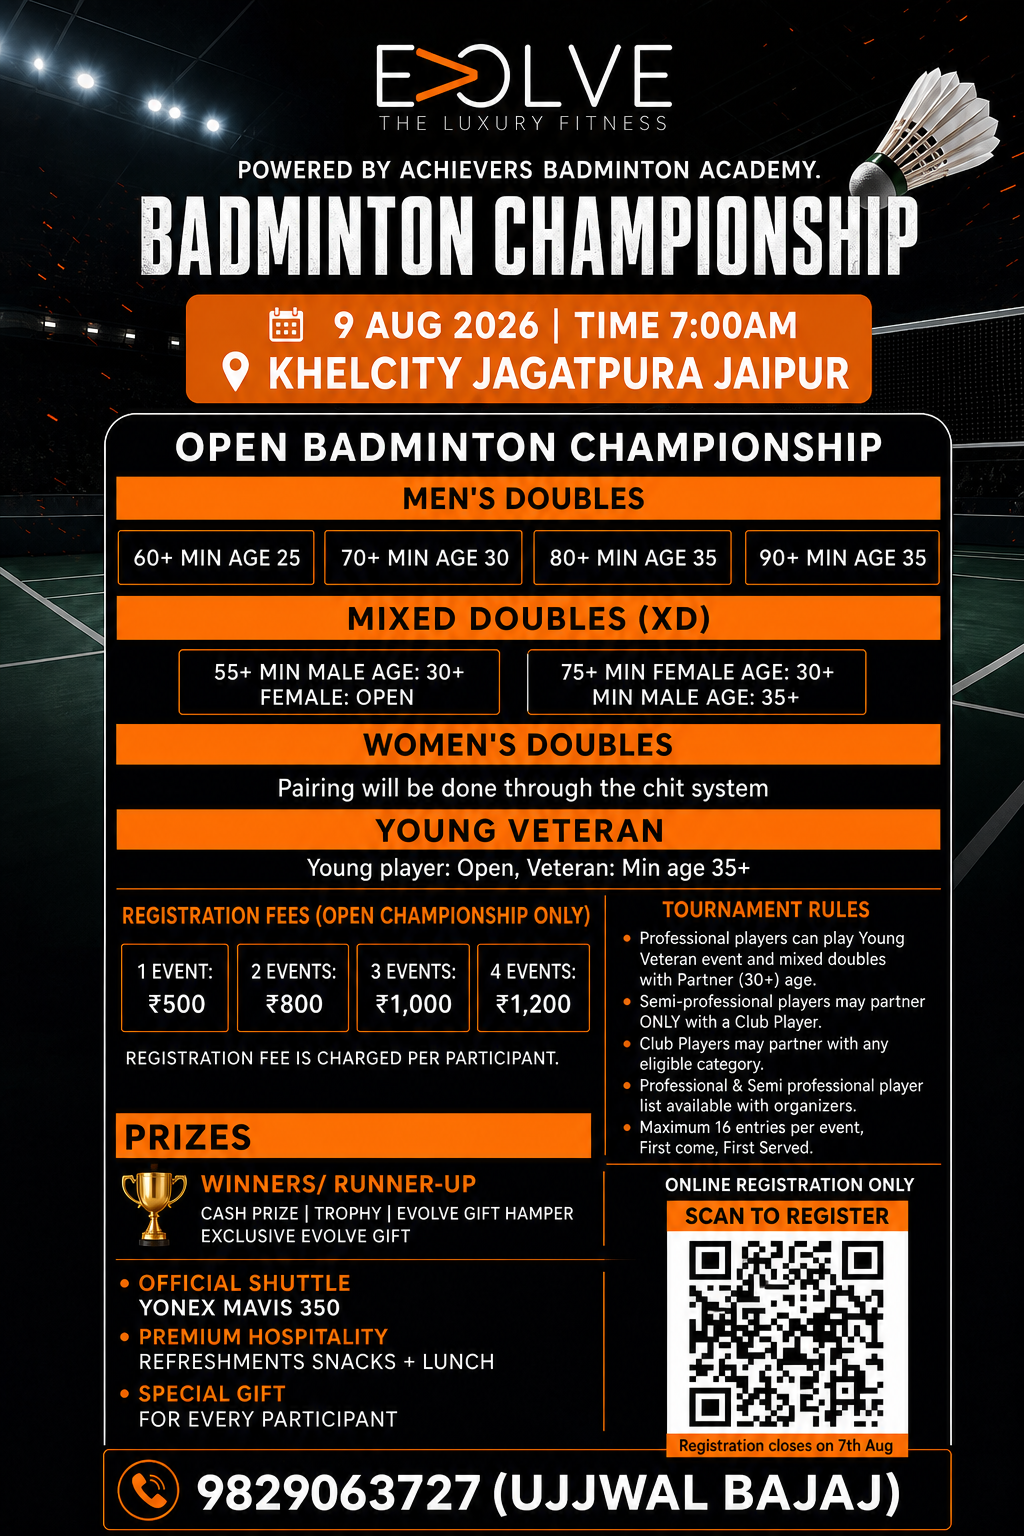
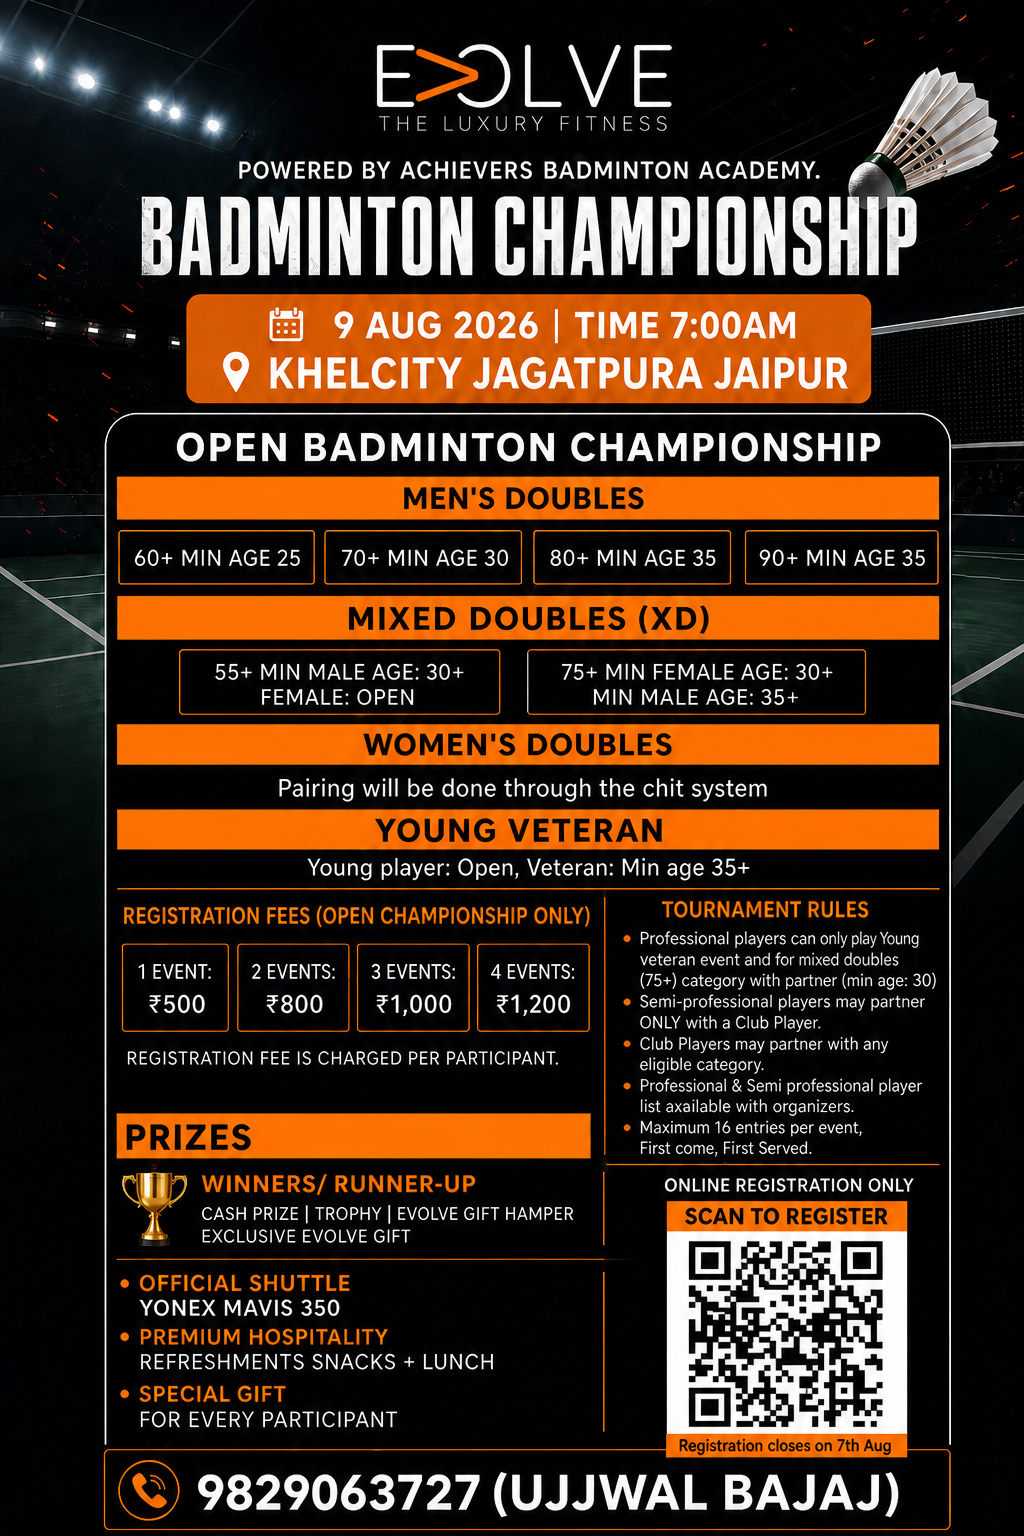
Restrict open professionals to Young Veteran and Mixed Doubles 75+.
Pros can no longer enter Mixed Doubles 55+; XD 75+ still requires a partner aged 30+.

diff --git a/frontend/react/src/data/badmintonChampionship.js b/frontend/react/src/data/badmintonChampionship.js
@@ -121,10 +121,10 @@ export const OPEN_PLAYER_LEVEL_OPTIONS = [
   { value: "professional", label: "Professional" },
 ];
 
-/** Pros may only enter Young Veteran and Mixed Doubles (partner 30+). */
-export const OPEN_PRO_ALLOWED_DIVISIONS = ["young_veteran", "mixed_doubles"];
+/** Pros may only enter Young Veteran and Mixed Doubles 75+ (partner 30+). */
+export const OPEN_PRO_ALLOWED_CATEGORY_IDS = ["open_yv", "open_xd_75"];
 
-/** Extra partner-age floor when a professional enters Mixed Doubles. */
+/** Extra partner-age floor when a professional enters Mixed Doubles 75+. */
 export const OPEN_PRO_MIXED_PARTNER_MIN_AGE = 30;
 
 /** Poster fee ladder (per participant, by number of events). */
@@ -164,7 +164,7 @@ export const OPEN_POSTER = {
   participationGift: "Special gift for every participant",
   maxEntriesNote: `Maximum ${MAX_ENTRIES_PER_CATEGORY} entries per event (first come, first served)`,
   rules: [
-    "Professional players can play Young Veteran and Mixed Doubles with a partner aged 30+.",
+    "Professional players can play Young Veteran and Mixed Doubles 75+ with a partner aged 30+.",
     "Semi-professional players may partner ONLY with a Club player.",
     "Club players may partner with any eligible category.",
     "Lists of professional and semi-professional players are available with the organizers.",
@@ -251,7 +251,7 @@ export const OPEN_SEMI_PRO_NOTES = [
   "This list is not exhaustive.",
 ];
 
-/** List B — professionals (Young Veteran + Mixed Doubles with partner 30+ only). */
+/** List B — professionals (Young Veteran + Mixed Doubles 75+ with partner 30+ only). */
 export const OPEN_PRO_PLAYERS = /** @type {OpenListedPlayer[]} */ ([
   { sn: 1, name: "Aakash", club: "ACE" },
   { sn: 2, name: "KD (Krishna Dutt)", club: "ACE" },
@@ -329,14 +329,14 @@ export function validateYoungVeteranAges(
 }
 
 /**
- * Professionals may only enter Young Veteran and Mixed Doubles.
+ * Professionals may only enter Young Veteran and Mixed Doubles 75+.
  * @param {OpenCategory | null | undefined} cat
  * @param {string} playerLevel
  */
 export function isOpenCategoryAllowedForLevel(cat, playerLevel) {
   if (!cat) return false;
   if (playerLevel !== "professional") return true;
-  return OPEN_PRO_ALLOWED_DIVISIONS.includes(cat.division);
+  return OPEN_PRO_ALLOWED_CATEGORY_IDS.includes(cat.id);
 }
 
 /**

diff --git a/frontend/react/src/pages/BadmintonOpen.jsx b/frontend/react/src/pages/BadmintonOpen.jsx
@@ -215,7 +215,7 @@ export default function BadmintonOpen() {
     }
     if (!isOpenCategoryAllowedForLevel(cat, details.playerLevel)) {
       setError(
-        "Professionals may only enter Young Veteran and Mixed Doubles (partner aged 30+)."
+        "Professionals may only enter Young Veteran and Mixed Doubles 75+ (partner aged 30+)."
       );
       return;
     }
@@ -292,11 +292,11 @@ export default function BadmintonOpen() {
 
     if (
       details.playerLevel === "professional" &&
-      cat.division === "mixed_doubles" &&
+      cat.id === "open_xd_75" &&
       partnerAgeRounded < OPEN_PRO_MIXED_PARTNER_MIN_AGE
     ) {
       setError(
-        `Professionals need a partner aged ${OPEN_PRO_MIXED_PARTNER_MIN_AGE}+ for Mixed Doubles.`
+        `Professionals need a partner aged ${OPEN_PRO_MIXED_PARTNER_MIN_AGE}+ for Mixed Doubles 75+.`
       );
       return;
     }
@@ -528,9 +528,9 @@ export default function BadmintonOpen() {
                 </label>
               </div>
               <p className="badminton-form__hint">
-                Professionals may enter Young Veteran and Mixed Doubles (partner
-                aged 30+). Semi-professionals may partner only with a Club
-                player.
+                Professionals may enter Young Veteran and Mixed Doubles 75+
+                (partner aged 30+). Semi-professionals may partner only with a
+                Club player.
               </p>
               <div className="badminton-form__actions badminton-form__actions--stack">
                 <button

diff --git a/backend/src/config/badmintonChampionship.js b/backend/src/config/badmintonChampionship.js
@@ -146,10 +146,10 @@ export const OPEN_PLAYER_LEVELS = [
   "professional",
 ];
 
-/** Pros may only enter Young Veteran and Mixed Doubles (partner 30+). */
-export const OPEN_PRO_ALLOWED_DIVISIONS = ["young_veteran", "mixed_doubles"];
+/** Pros may only enter Young Veteran and Mixed Doubles 75+ (partner 30+). */
+export const OPEN_PRO_ALLOWED_CATEGORY_IDS = ["open_yv", "open_xd_75"];
 
-/** Extra partner-age floor when a professional enters Mixed Doubles. */
+/** Extra partner-age floor when a professional enters Mixed Doubles 75+. */
 export const OPEN_PRO_MIXED_PARTNER_MIN_AGE = 30;
 
 export const ALL_PLAYER_LEVELS = [
@@ -224,14 +224,14 @@ export function validateYoungVeteranAges(
 }
 
 /**
- * Professionals may only enter Young Veteran and Mixed Doubles.
+ * Professionals may only enter Young Veteran and Mixed Doubles 75+.
  * @param {OpenCategory | null | undefined} cat
  * @param {string} playerLevel
  */
 export function isOpenCategoryAllowedForLevel(cat, playerLevel) {
   if (!cat) return false;
   if (playerLevel !== "professional") return true;
-  return OPEN_PRO_ALLOWED_DIVISIONS.includes(cat.division);
+  return OPEN_PRO_ALLOWED_CATEGORY_IDS.includes(cat.id);
 }
 
 /**

diff --git a/backend/src/services/badmintonService.js b/backend/src/services/badmintonService.js
@@ -323,7 +323,7 @@ export function parseOpenRegistrationBody(body) {
       return {
         ok: false,
         message:
-          "Professional players may only enter Young Veteran and Mixed Doubles (partner aged 30+)",
+          "Professional players may only enter Young Veteran and Mixed Doubles 75+ (partner aged 30+)",
       };
     }
 
@@ -418,12 +418,12 @@ export function parseOpenRegistrationBody(body) {
 
     if (
       playerLevel === "professional" &&
-      cat.division === "mixed_doubles" &&
+      cat.id === "open_xd_75" &&
       partnerAgeRounded < OPEN_PRO_MIXED_PARTNER_MIN_AGE
     ) {
       return {
         ok: false,
-        message: `Professional players need a partner aged ${OPEN_PRO_MIXED_PARTNER_MIN_AGE}+ for Mixed Doubles`,
+        message: `Professional players need a partner aged ${OPEN_PRO_MIXED_PARTNER_MIN_AGE}+ for Mixed Doubles 75+`,
       };
     }
 

diff --git a/frontend/react/src/components/BadmintonPlayerListsModal.jsx b/frontend/react/src/components/BadmintonPlayerListsModal.jsx
@@ -79,7 +79,8 @@ export default function BadmintonPlayerListsModal({ open, onClose }) {
               List B — Professional
             </h3>
             <p className="badminton-player-list-block__lede">
-              May play Young Veteran and Mixed Doubles with a partner aged 30+.
+              May play Young Veteran and Mixed Doubles 75+ with a partner aged
+              30+.
             </p>
             <PlayerTable players={OPEN_PRO_PLAYERS} />
           </section>
